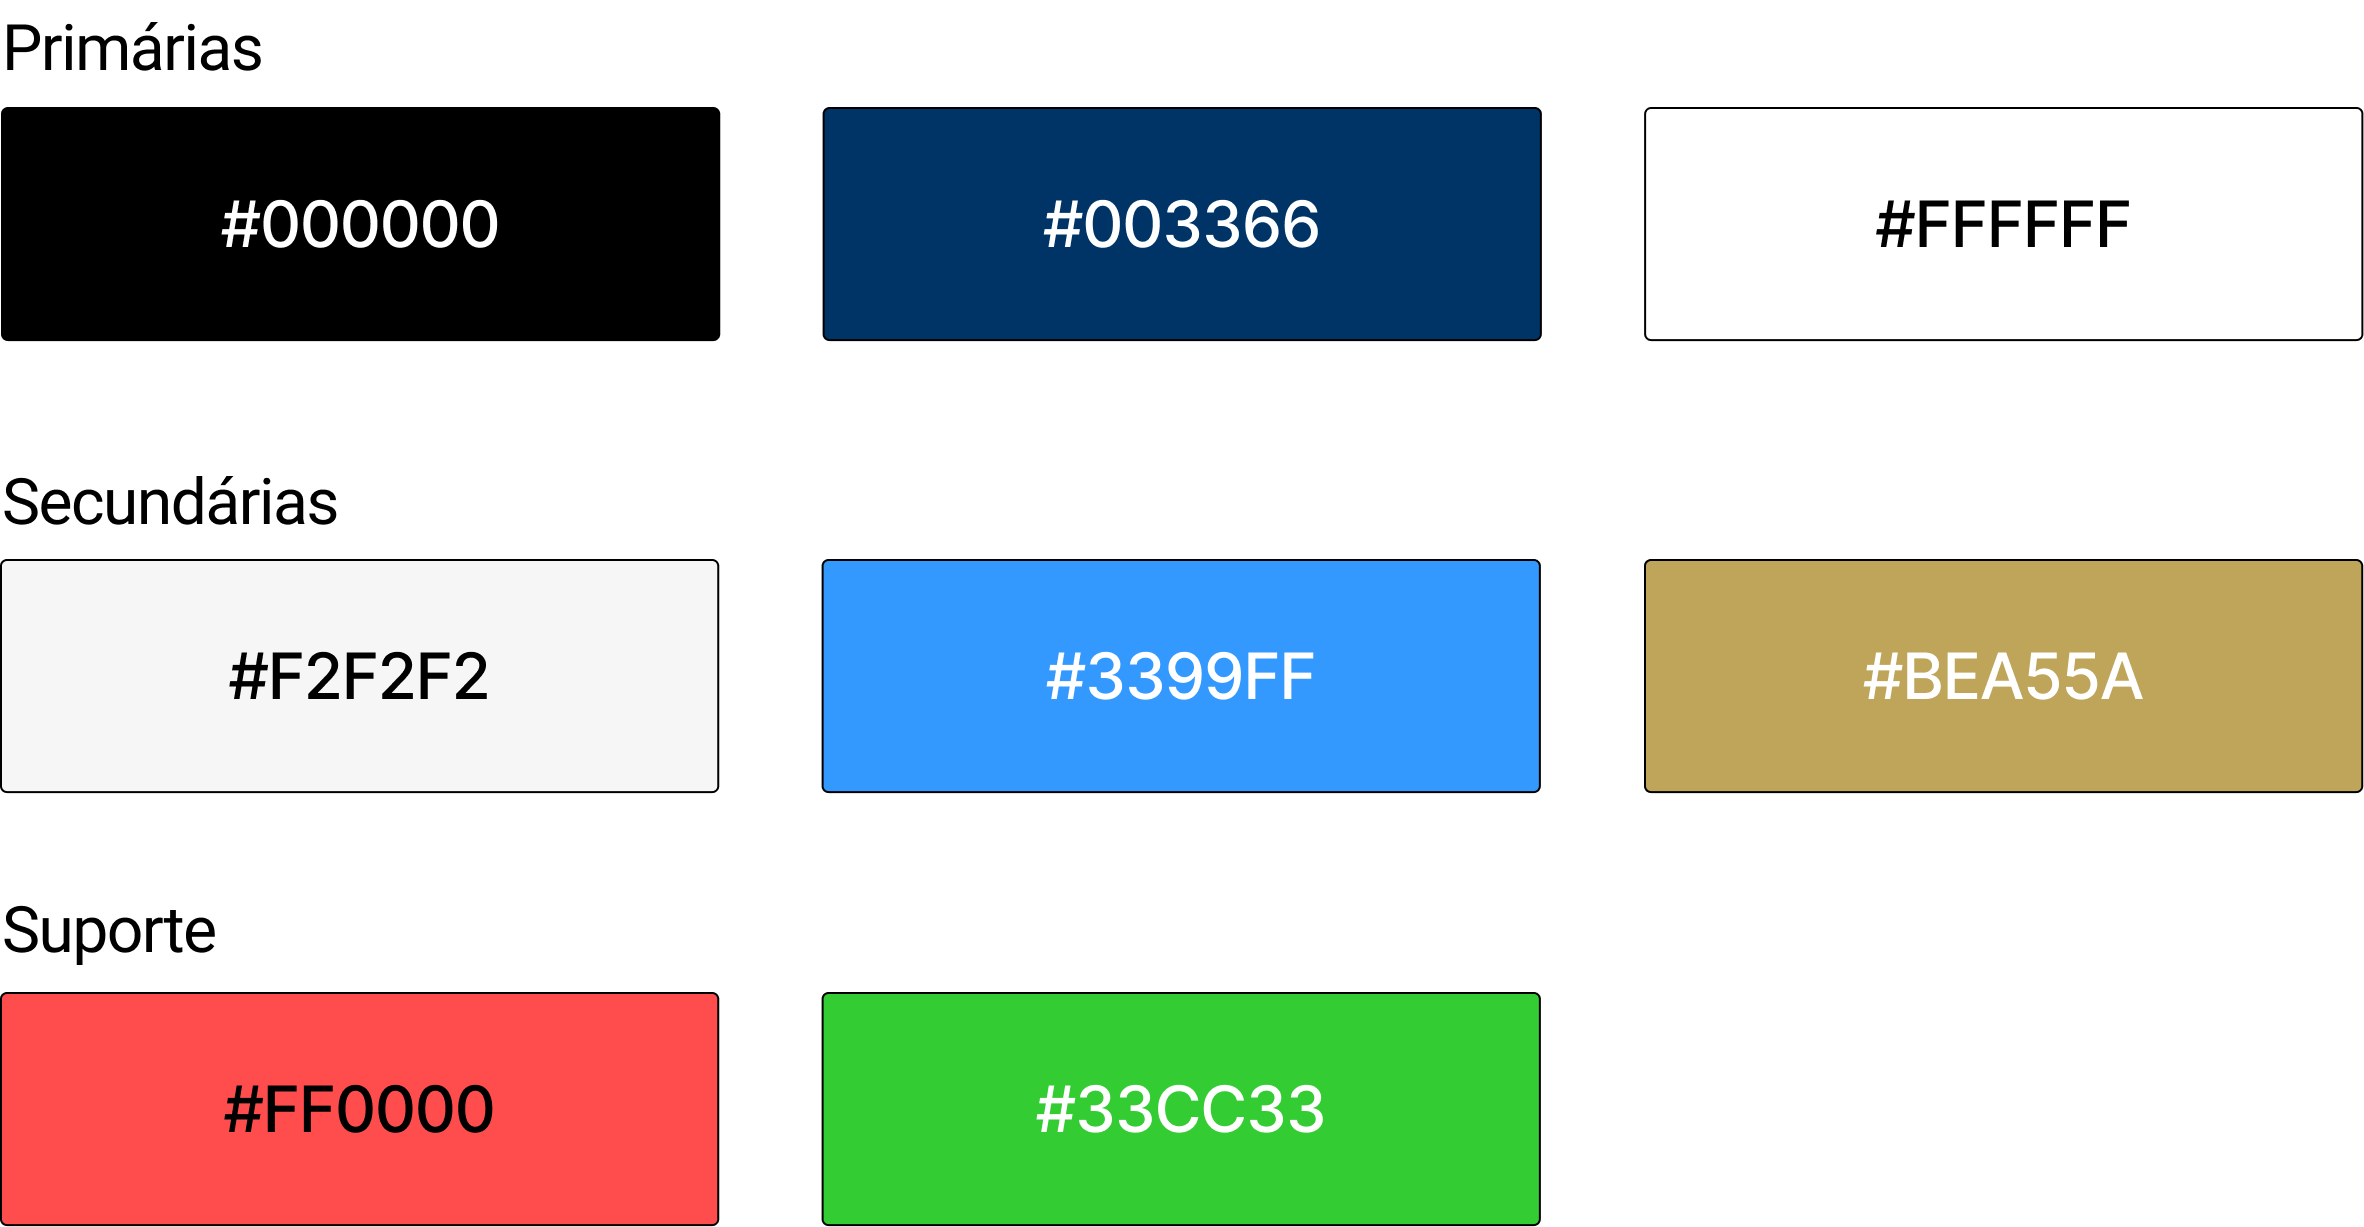
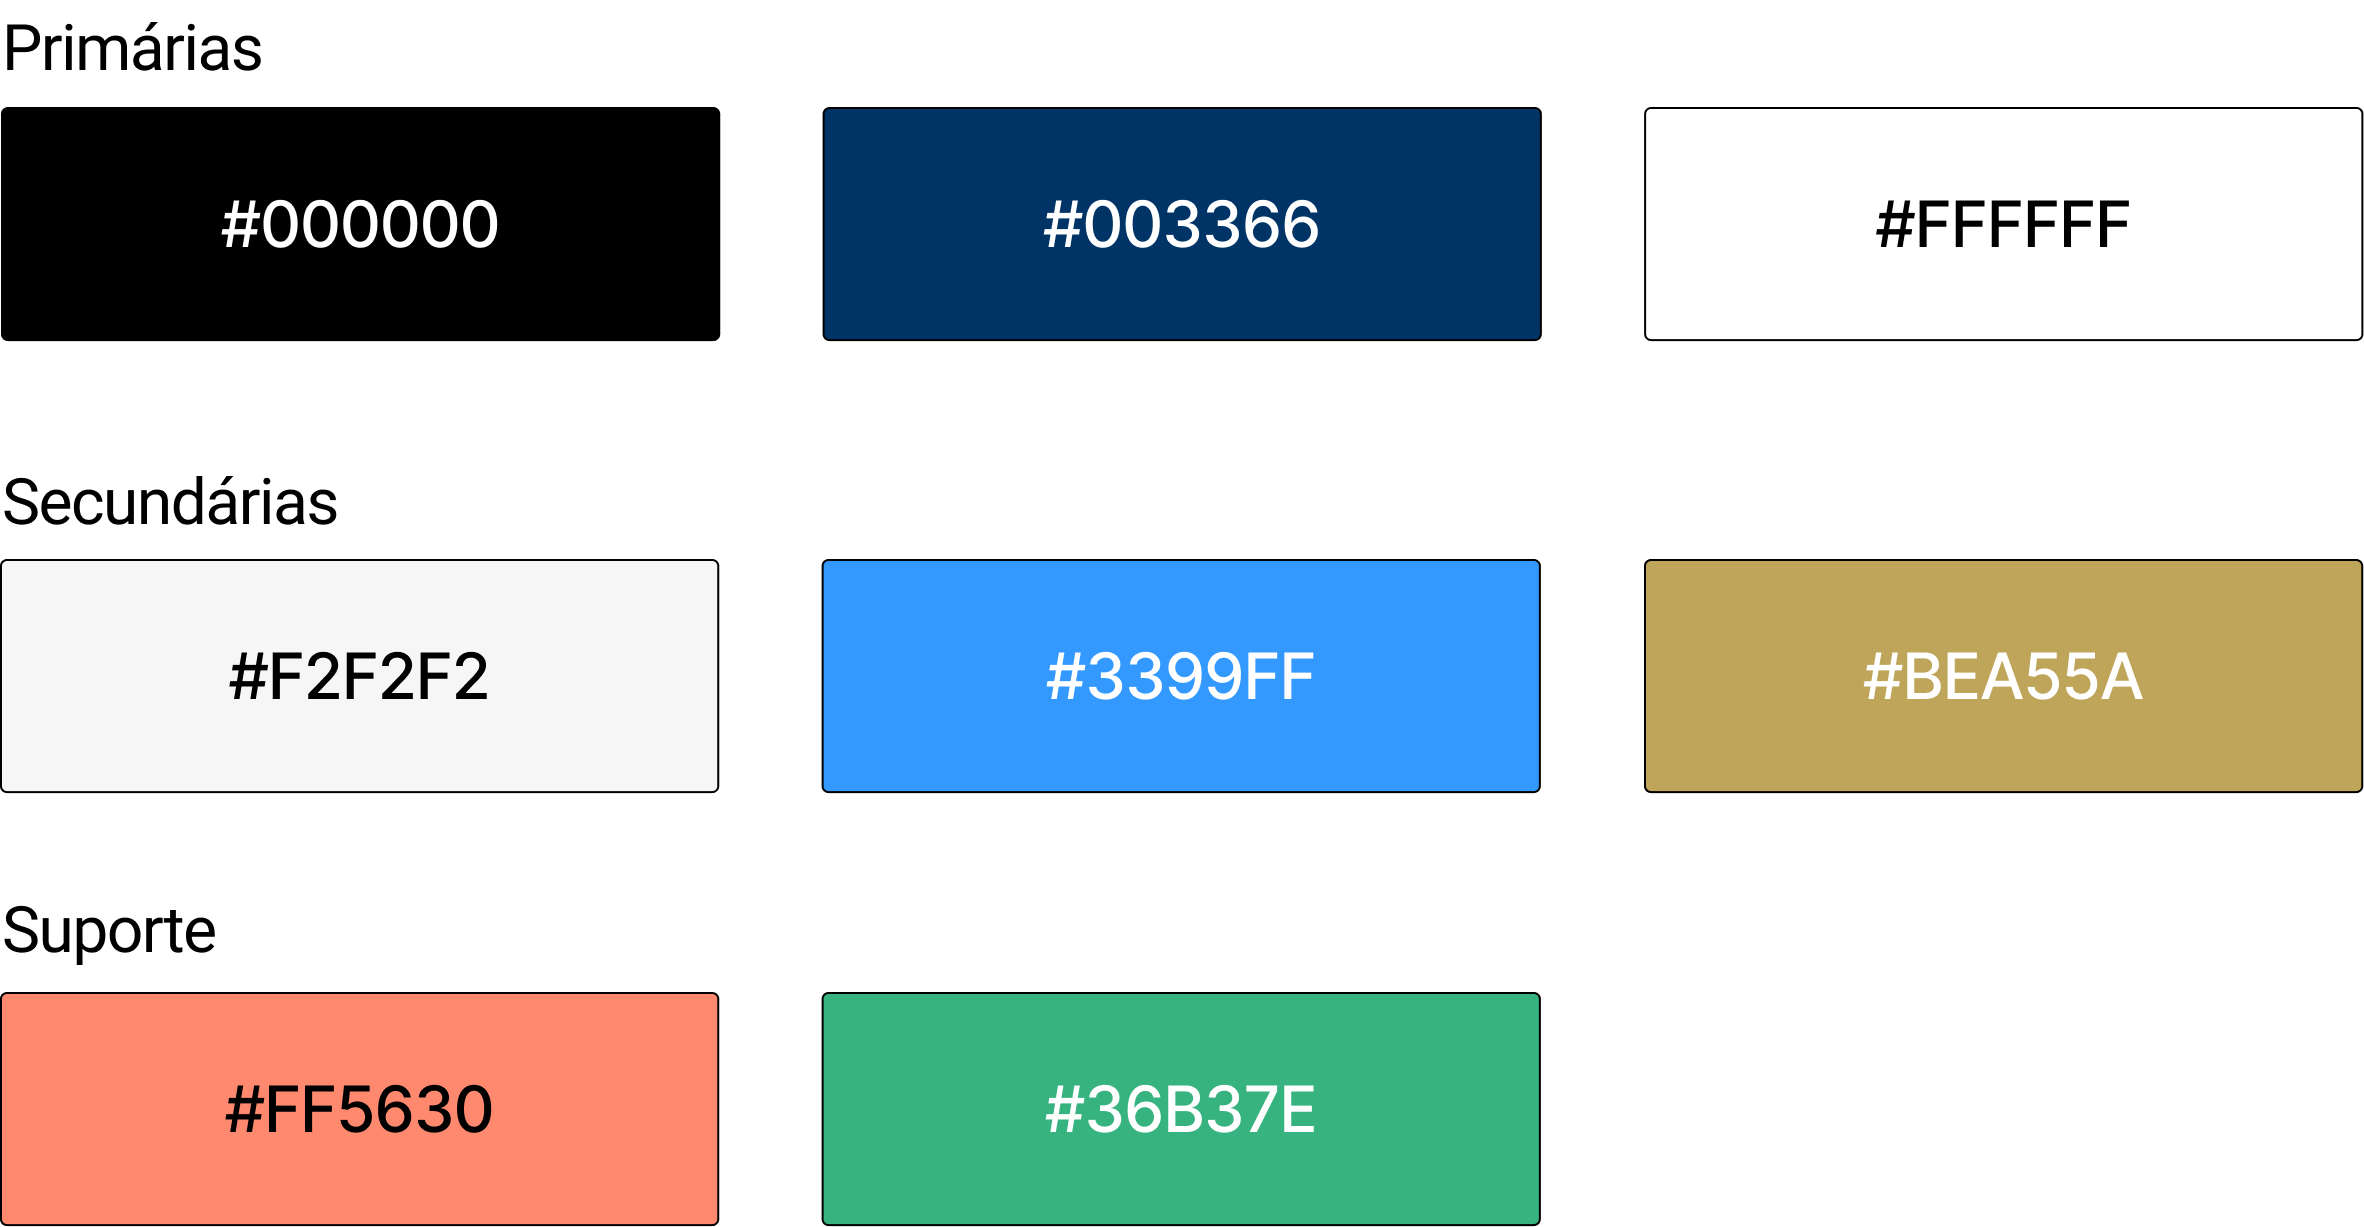
correções guis de estilo

Changed region(s): [[0.3397, 0.8052, 0.6485, 1.0], [0.0, 0.8052, 0.3088, 1.0]]

diff --git a/docs/analise_requisitos2/guia_estilo.md b/docs/analise_requisitos2/guia_estilo.md
@@ -51,8 +51,8 @@ Um guia de estilo de interfaceé um conjunto de padrões e diretrizes que garant
 </div>
 
 - Primárias: Preto (#000000) para cabeçalhos e rodapés, azul escuro (#003366), branco (#FFFFFF) para fundos.
-- Secundárias: Cinza claro (#F2F2F2) para seções de fundo, azul claro (#3399FF) para botões de chamada para ação e amarelo escuro (#BEA55A) para menu e botão.
-- Suporte: Vermelho (#FF0000) para alertas e avisos, verde (#33CC33) para confirmações e sucessos.
+- Secundárias: Cinza claro (#F2F2F2) para seções de fundo, azul claro (#3399FF) para botões de chamada para ação e amarelo escuro (#BEA55A) para menu e botão, Verde claro para alguns botões de texto (#36B37E).
+- Suporte: Vermelho (#FF5630) para alertas e avisos, verde (#36B37E) para confirmações e sucessos.
 
 ### Botões e Ícones
 
@@ -102,7 +102,51 @@ Estilo: Bordas arredondadas com 4px de raio, sombra sutil para elevação.
 </div>
 
 ## Elementos de Interação
+Os elementos de interação são componentes chave que permitem aos usuários navegar, fornecer informações e executar ações. 
+### Estilos de interação
+- **Botões**
+**Primários**
+- Uso: Ações principais (ex: "Enviar", "Salvar")
+- Estilo:
+    - Cor de Fundo: Azul Claro (#3399FF)
+    - Texto: Branco (#FFFFFF)
+    - Fonte: Arial ou Roboto, Negrito, 16px
+    - Padding: 12px vertical, 20px horizontal
+    - Bordas Arredondadas: 4px
+- Estados:
+    - Hover: Fundo Azul Claro mais luminoso (#5AB3FF)
+    - Ativo: Fundo Azul Claro mais escuro (#2B89E0)
 
+    Secundários
+        Uso: Ações secundárias (ex: "Cancelar", "Voltar")
+        Estilo:
+            Cor de Fundo: Branco (#FFFFFF)
+            Texto: Azul Claro (#3399FF)
+            Borda: 2px sólida, Azul Claro (#3399FF)
+            Fonte: Arial ou Roboto, Regular, 16px
+            Padding: 12px vertical, 20px horizontal
+            Bordas Arredondadas: 4px
+
+**Alertas**
+- Uso: Ações críticas (ex: "Excluir", "Resetar")
+- Cor de Fundo: Vermelho (#FF5630)
+- Texto: Branco (#FFFFFF)
+- Fonte: Arial ou Roboto, Negrito, 16px
+- Padding: 12px vertical, 20px horizontal
+- Bordas Arredondadas: 4px
+
+**Links**
+- Uso: Navegação e acessos rápidos
+- Texto: Azul Claro (#3399FF)
+- Fonte: Arial ou Roboto, Regular, 16px
+
+**Ícones Interativos**
+- Uso: Navegação e ações rápidas (ex: menus, fechar, buscar)
+- Tamanho: 24px (principais), 20px (listas/menus)
+- Cor: Sinza escuro (#777777), Azul Escuro (#003366)
+
+### Seleção de estilo
+### Aceleradores
 ## Elementos de Ação
 
 
@@ -116,7 +160,8 @@ Estilo: Bordas arredondadas com 4px de raio, sombra sutil para elevação.
 
 ## Referência Bibliográfica
 > BARBOSA, S.D.J.; SILVA, B.S. Interação Humano-Computador. Editora Campus-Elsevier, 2010.
-> MARCUS, A. Graphic design for electronic documents and user interfaces. Association for Computing Machinery, New York, NY, USA, 1991.
+> GNOME Foundation, "GNOME Developer Center." [Online]. Available: https://developer.gnome.org/. [Accessed: 17 de Maio, 2024].
+
 
 ## **Histórico de Versões**
 
